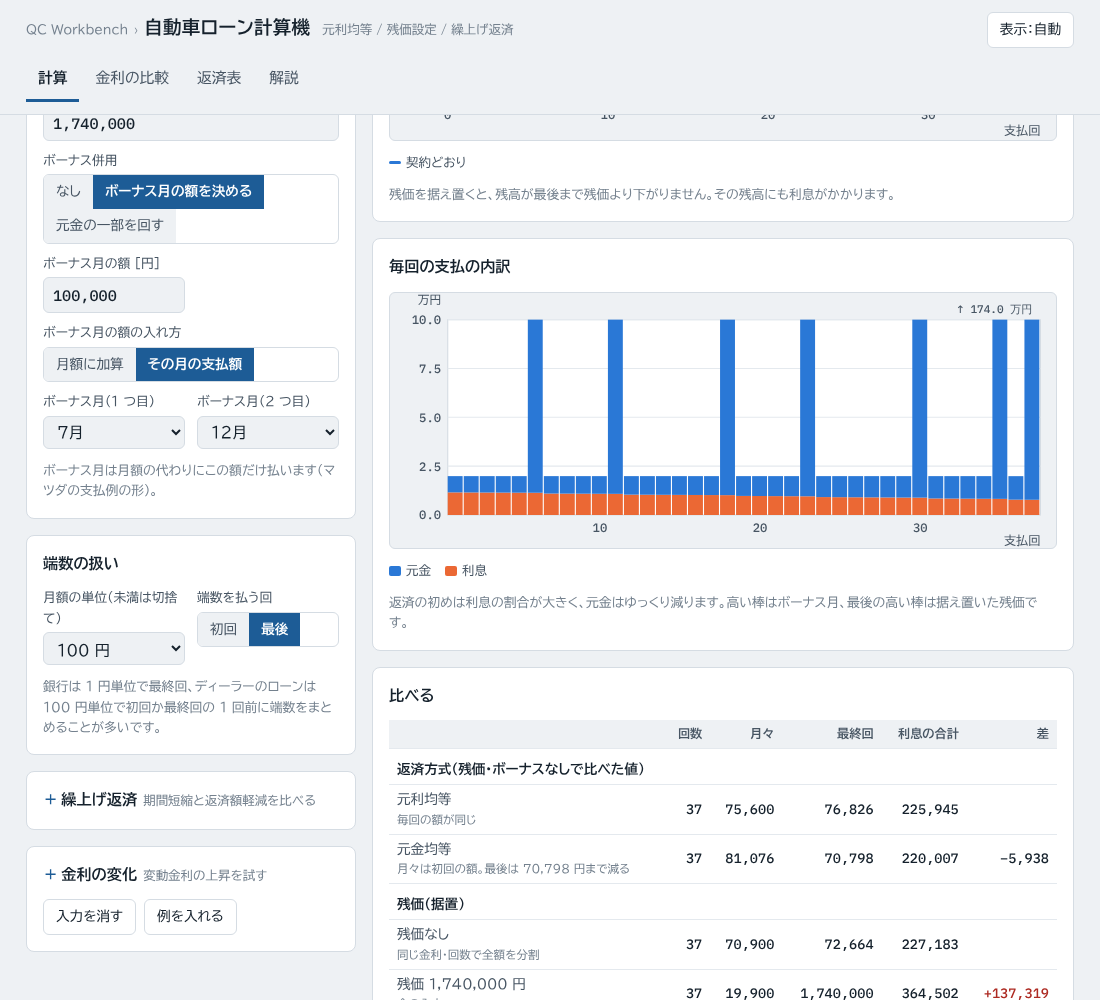
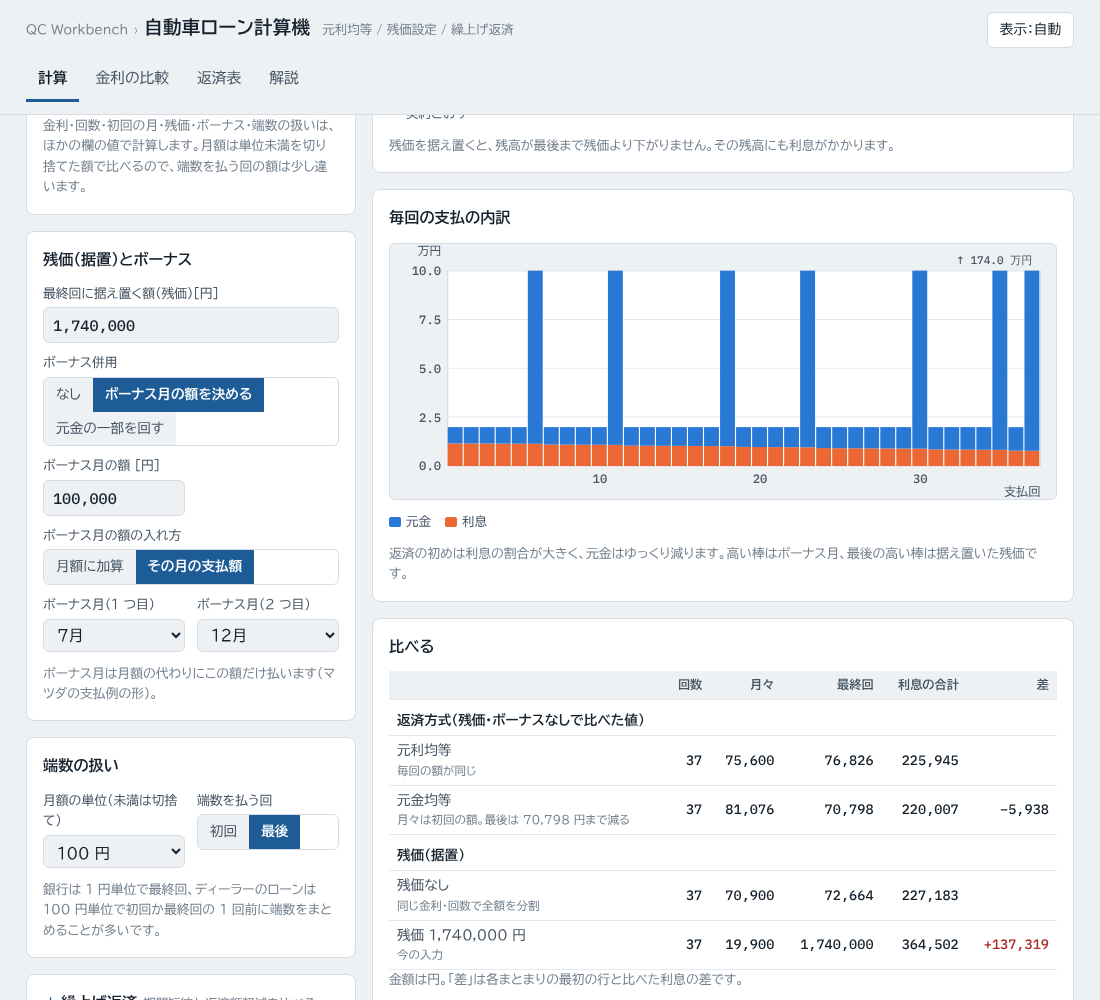
月々の支払額から借りられる額を逆算する欄を追加

diff --git a/js/app.js b/js/app.js
@@ -18,7 +18,7 @@
   // ---- 状態 ----
   const DEF = () => ({ price: '3,000,000', down: '500,000', preset: '', apr: '3.0', n: '60', first: String(nextMonth()), method: 'level',
     balloon: '', bmode: 'none', bamt: '', binc: 'add', bshare: '', bm1: '7', bm2: '12', unit: '1', adj: 'last',
-    ppk: '', ppx: '', rc: [{ k: '', apr: '' }, { k: '', apr: '' }, { k: '', apr: '' }], rule: 'recalc' });
+    ppk: '', ppx: '', target: '', rc: [{ k: '', apr: '' }, { k: '', apr: '' }, { k: '', apr: '' }], rule: 'recalc' });
   let st = store.get(KEY);
   if (!st || !st.c) st = { mode: 'calc', view: 'base', c: DEF() };
   st.c = Object.assign(DEF(), st.c);
@@ -37,7 +37,7 @@
     [0, 1, 2].map(i => `<input type="text" id="cRcK${i}" inputmode="numeric" aria-label="金利が変わる回 ${i + 1}"><input type="text" id="cRcA${i}" inputmode="decimal" aria-label="変わったあとの金利 ${i + 1}">`).join('');
 
   // ---- 入力と状態の対応 ----
-  const IN = { cPrice: 'price', cDown: 'down', cPreset: 'preset', cApr: 'apr', cN: 'n', cFirst: 'first', cBalloon: 'balloon', cBamt: 'bamt', cBshare: 'bshare', cBm1: 'bm1', cBm2: 'bm2', cUnit: 'unit', cPpk: 'ppk', cPpx: 'ppx' };
+  const IN = { cPrice: 'price', cDown: 'down', cPreset: 'preset', cApr: 'apr', cN: 'n', cFirst: 'first', cBalloon: 'balloon', cBamt: 'bamt', cBshare: 'bshare', cBm1: 'bm1', cBm2: 'bm2', cUnit: 'unit', cPpk: 'ppk', cPpx: 'ppx', cTarget: 'target' };
   const findPreset = id => LC.PRESETS.find(p => p.id === id) || null;
   function fillInputs() {
     Object.entries(IN).forEach(([id, k]) => { $(id).value = st.c[k] ?? ''; });
@@ -56,7 +56,7 @@
     if (k === 'apr') { const p = findPreset(st.c.preset); if (p && !(num(st.c.apr) / 100 >= p.lo - 1e-9 && num(st.c.apr) / 100 <= p.hi + 1e-9)) { st.c.preset = ''; $('cPreset').value = ''; } }
     save(); render();
   }));
-  ['cPrice', 'cDown', 'cBalloon', 'cBamt', 'cBshare', 'cPpx'].forEach(id => $(id).addEventListener('blur', () => {
+  ['cPrice', 'cDown', 'cBalloon', 'cBamt', 'cBshare', 'cPpx', 'cTarget'].forEach(id => $(id).addEventListener('blur', () => {
     const v = num($(id).value);
     if (Number.isFinite(v) && v >= 0) { const t = Math.round(v).toLocaleString('ja-JP'); $(id).value = t; st.c[IN[id]] = t; save(); }
   }));
@@ -139,8 +139,43 @@
 
   // ================= 計算 =================
   let R = null; const cCopy = [];
+  // 逆算：払える月額から、借りられる額と車両・諸費用の上限を出す（回数ごとの表も）
+  function renderReverse(o, bad, downIn) {
+    const el = $('cRev'), t = num(st.c.target), down = downIn >= 0 ? downIn : 0;
+    $('cTarget').classList.toggle('bad', String(st.c.target).trim() !== '' && !(t > 0));
+    if (String(st.c.target).trim() === '') { el.innerHTML = ''; return; }
+    if (!(t > 0)) { el.innerHTML = '<div class="msg err">× 月々の支払額は 0 より大きい値を入れてください。</div>'; return; }
+    // 借入額に関係しない欄（金利・回数・残価・ボーナス・端数）に誤りがあるときは計算しない
+    const need = ['cApr', 'cN', 'cBamt', 'cBm1', 'cBm2'].filter(id => bad.has(id));
+    if (need.length) { el.innerHTML = '<div class="msg err">× 金利・回数・ボーナスの赤い欄の値を確かめてください。</div>'; return; }
+    const base = Object.assign(baseOf(o), { P: 1 });
+    const m = LC.maxPrincipal(base, t);
+    if (m.errors.length) { el.innerHTML = `<div class="msg err">× ${esc(m.errors[0])}</div>`; return; }
+    const r = LC.simulate(Object.assign({}, base, { P: m.P }));
+    const princ = o.method === 'principal';
+    el.innerHTML = `<div class="rev">` +
+      `<div class="main"><span>借りられる額の上限</span><b>${yen(m.P)}<small> 円</small></b><small class="s">${princ ? '初回' : '月額'} ${yen(m.monthly)} 円・${pct(o.apr)}%・${o.n} 回${!princ && m.adjK && m.adjPay !== m.monthly ? `。端数をまとめる${m.adjK === 1 ? '初回' : ` ${m.adjK} 回目`}は ${yen(m.adjPay)} 円` : ''}</small></div>` +
+      `<div><span>頭金を足した支払う額の上限</span><b>${yen(m.P + down)}<small> 円</small></b><small class="s">頭金 ${yen(down)} 円</small></div>` +
+      `<div><span>利息の合計</span><b>${yen(r.totalInterest)}<small> 円</small></b></div>` +
+      `<div><span>ローンの支払総額</span><b>${yen(r.totalPay)}<small> 円</small></b>${o.balloon > 0 ? `<small class="s">最終回（残価）${yen(r.finalPay)} 円を含む</small>` : ''}</div>` +
+      `</div>` +
+      // 回数ごとの上限（今の回数の行に色）
+      `<div class="scroll"><table class="revn"><thead><tr><th>回数</th><th style="text-align:right">借りられる額</th><th style="text-align:right">頭金込み</th><th style="text-align:right">利息</th></tr></thead><tbody>` +
+      [...new Set([24, 36, 48, 60, 72, 84, 96, 120, o.n])].sort((a, b) => a - b).map(n => {
+        const mm = LC.maxPrincipal(Object.assign({}, base, { n }), t);
+        if (mm.errors.length) return `<tr${n === o.n ? ' class="cur"' : ''}><th>${n} 回</th><td colspan="3" style="text-align:left;font-family:var(--f-ui)">―</td></tr>`;
+        const rr = LC.simulate(Object.assign({}, base, { n, P: mm.P }));
+        return `<tr${n === o.n ? ' class="cur"' : ''}><th>${n} 回</th><td>${yen(mm.P)}</td><td>${yen(mm.P + down)}</td><td>${yen(rr.totalInterest)}</td></tr>`;
+      }).join('') + `</tbody></table></div>` +
+      `<div class="row" style="margin-top:8px"><button class="btn" type="button" id="cRevUse">この上限で計算する</button></div>`;
+    $('cRevUse').addEventListener('click', () => {
+      st.c.price = (m.P + down).toLocaleString('ja-JP'); fillInputs(); save(); render(); toast('支払う額を、借りられる上限に頭金を足した額にしました');
+    });
+  }
+
   function renderCalc() {
     const { o, bad, down } = read();
+    renderReverse(o, bad, down);
     const p = findPreset(st.c.preset);
     $('cLoanNote').textContent = o.P > 0 ? `借入額：${yen(o.P)} 円` : '';
     $('cPresetNote').innerHTML = p ? `${esc(p.note)}。出典：<a href="${esc(p.url)}" target="_blank" rel="noopener">${esc(p.src)}</a>（${esc(LC.RATES_CHECKED)} 確認）` + (p.hi > p.lo ? `。範囲 ${pct(p.lo)}〜${pct(p.hi)}% のうち、下限を入れています。` : '') : '販売店の見積書や銀行の審査結果の金利（実質年率）を入れてください。「金利の比較」タブで各社の例を比べられます。';

diff --git a/index.html b/index.html
@@ -180,6 +180,19 @@ table.sch tr.best td { font-weight: 700; }
 table.sch td.ng { color: var(--ng); }
 table.sch td .u { color: var(--muted); font-size: .76rem; margin-left: 2px; font-family: var(--f-ui); }
 .sch-wrap { max-height: 70vh; overflow: auto; border: 1px solid var(--line); border-radius: 6px; }
+/* 逆算 */
+.rev { display: grid; grid-template-columns: repeat(2, minmax(0, 1fr)); gap: 8px; }
+.rev div { background: var(--bg); border-radius: 6px; padding: 6px 8px; min-width: 0; }
+.rev span { display: block; font-size: .72rem; color: var(--ink2); }
+.rev b { font: 500 1.15rem var(--f-num); font-variant-numeric: tabular-nums; white-space: nowrap; }
+.rev .main b { color: var(--accent); }
+.rev b small { font-family: var(--f-ui); font-size: .72rem; color: var(--muted); margin-left: 2px; }
+.rev small.s { display: block; font-size: .72rem; color: var(--muted); line-height: 1.4; margin-top: 2px; }
+table.revn { border-collapse: collapse; width: 100%; font-size: .84rem; margin-top: 4px; }
+table.revn th, table.revn td { padding: 3px 6px; border-bottom: 1px solid var(--grid); white-space: nowrap; }
+table.revn th { text-align: left; font-weight: 400; color: var(--ink2); }
+table.revn td { font-family: var(--f-num); font-variant-numeric: tabular-nums; text-align: right; }
+table.revn tr.cur { background: var(--accent-weak); }
 /* 金利の比較 */
 table.pr { border-collapse: collapse; width: 100%; font-size: .85rem; }
 table.pr th, table.pr td { padding: 6px 8px; border-bottom: 1px solid var(--grid); vertical-align: top; }
@@ -260,6 +273,14 @@ details.opt .inner { display: flex; flex-direction: column; gap: 12px; }
         <p class="privacy">入力したデータは、この端末の外に送りません。入力は自動でこの端末に保存します。</p>
       </div>
       <div class="sum" id="cSum" aria-live="polite"></div>
+      <div class="box">
+        <h2>月々の支払額から逆算</h2>
+        <div class="fields">
+          <div class="field wide"><label for="cTarget">払える月々の支払額 [円]</label><input type="text" id="cTarget" inputmode="numeric" placeholder="例：30,000"></div>
+        </div>
+        <div id="cRev" aria-live="polite"></div>
+        <p class="hint">金利・回数・初回の月・残価・ボーナス・端数の扱いは、ほかの欄の値で計算します。月額は単位未満を切り捨てた額で比べるので、端数を払う回の額は少し違います。</p>
+      </div>
       <div class="box">
         <h2>残価（据置）とボーナス</h2>
         <div class="fields">
@@ -472,6 +493,15 @@ details.opt .inner { display: flex; flex-direction: column; gap: 12px; }
 </tbody>
 </table>
 <p>調整する回の額は、その後の支払で残高がちょうど 0 になる（残価があるときは最終回がちょうど残価になる）ように、契約時の金利で逆算しています。</p>
+<h2>月々の支払額から逆算</h2>
+<p>「払える月々の支払額」を入れると、その月額で借りられる額の上限と、頭金を足した支払う額（車両・諸費用）の上限を出します。金利・回数・初回の月・残価・ボーナス・端数の扱いは、ほかの欄の値を使います。</p>
+<ul>
+<li>比べるのは単位未満を切り捨てた月額（見積書の「月々○円」）です。元金均等では初回の額で比べます</li>
+<li>切り捨てた端数は端数を払う回にまとまるので、その回の額も表示します。100 円単位では、その回が月額より数千円多くなることがあります</li>
+<li>月額は借入額に対して増える一方なので、上限は 1 円単位まで探して求めています（式で解くと、月額の切捨てと端数の調整を含められないため）</li>
+<li>回数ごと（24〜120 回）の上限も並べます。回数を延ばすと借りられる額は増えますが、利息の合計も増えます</li>
+<li>残価やボーナス月の額を決めているときは、それらを払ったうえで月額がこの額になる上限です</li>
+</ul>
 <h2>繰上げ返済</h2>
 <p>指定した回の支払のあとに、指定した額を元金に充てます。</p>
 <ul>

diff --git a/tests/test.js b/tests/test.js
@@ -141,7 +141,39 @@ ok('ボーナス月が 1 つ', L.simulate({ P: 1e6, apr: 0.03, n: 60, first: 1, 
 ok('元金均等に据置', L.simulate({ P: 1e6, apr: 0.03, n: 60, first: 1, method: 'principal', balloon: 1e5 }).errors.length > 0);
 ok('据置に一部繰上げ', L.simulate({ P: 1e6, apr: 0.03, n: 60, first: 1, balloon: 1e5, prepay: { k: 10, amount: 1e5, mode: 'shorten' } }).errors.length > 0);
 
-// ================= 5. 金利のプリセット =================
+// ================= 5. 逆算（月々の支払額から借りられる額） =================
+// 順方向の計算（上で照合済み）の逆なので、往復で確かめる：結果の借入額で月額（単位未満切捨て）が目標以下、1 円増やすと目標を超える
+{
+  const cases = [
+    ['元利均等 3%・60 回・1 円単位', { apr: 0.03, n: 60 }, 44921],
+    ['元利均等 0%', { apr: 0, n: 60 }, 20000],
+    ['元金均等 4%・84 回（初回の額）', { apr: 0.04, n: 84, method: 'principal' }, 50000],
+    ['マツダ CX-30 の条件・100 円単位', { apr: 0.054, n: 37, first: 2, balloon: 1740000, bonus: { mode: 'amount', amount: 100000, months: [7, 12], include: 'total' }, round: { unit: 100, adjust: 'last' } }, 19900],
+    ['銀行のボーナス併用（60 万円）', { apr: 0.05, n: 60, bonus: { mode: 'share', share: 600000, months: [6, 12] } }, 26419]
+  ];
+  for (const [name, o, target] of cases) {
+    const m = L.maxPrincipal(Object.assign({ first: 1, round: { unit: 1, adjust: 'last' } }, o), target);
+    if (m.errors.length) { ok(name, false, m.errors.join(' ')); continue; }
+    const pay = P => { const r = run(Object.assign({}, o, { P })); return o.method === 'principal' ? r.firstPay : r.A; };
+    ok(`逆算 ${name} 月額が目標以下`, pay(m.P) <= target, `${pay(m.P)} > ${target}`);
+    ok(`逆算 ${name} 1 円増やすと目標を超える`, pay(m.P + 1) > target, `${pay(m.P + 1)}`);
+  }
+  // 手計算：3%・60 回で月額 44,921 円（1 円単位）→ 丸める前の月額が 44,922 円未満になる上限 = 44,922 × 年金現価係数 の直前
+  const af = (1 - Math.pow(1.0025, -60)) / 0.0025;
+  eq('逆算 3%・60 回の上限（手計算）', L.maxPrincipal({ P: 1, apr: 0.03, n: 60, first: 1, round: { unit: 1, adjust: 'last' } }, 44921).P, Math.ceil(44922 * af) - 1, 1);
+  eq('逆算 0% の上限', L.maxPrincipal({ P: 1, apr: 0, n: 60, first: 1, round: { unit: 1, adjust: 'last' } }, 20000).P, 20000 * 60 + 59, 0);
+  // 調整の回の額も返す（100 円単位では、切り捨てた端数がまとまって大きくなることがある）
+  const m100 = L.maxPrincipal({ P: 1, apr: 0.05, n: 60, first: 1, round: { unit: 100, adjust: 'last' } }, 30000);
+  ok('逆算 100 円単位 月額と調整回', m100.monthly === 30000 && m100.adjPay > 30000, JSON.stringify(m100));
+  ok('逆算 月額 0', L.maxPrincipal({ P: 1, apr: 0.03, n: 60, first: 1 }, 0).errors.length > 0);
+  // ボーナス月の額と残価が大きいと、月額 10 円でも借りられる額がある（その月額は 0〜10 円）
+  const big = { P: 1, apr: 0.05, n: 60, first: 1, round: { unit: 1, adjust: 'last' }, balloon: 1000000, bonus: { mode: 'amount', amount: 50000, months: [6, 12], include: 'total' } };
+  const mb = L.maxPrincipal(big, 10);
+  ok('逆算 ボーナスと残価が大きいときの月額', mb.errors.length === 0 && mb.monthly >= 0 && mb.monthly <= 10, JSON.stringify(mb));
+  ok('月額がマイナスになる借入額', L.simulate(Object.assign({}, big, { P: 1000001 })).errors.length > 0);
+}
+
+// ================= 6. 金利のプリセット =================
 for (const p of L.PRESETS) {
   ok(`プリセット ${p.name} の出典`, /^https:\/\//.test(p.url || ''));
   ok(`プリセット ${p.name} の値`, p.lo > 0 && p.hi >= p.lo && p.hi < 0.3);

diff --git a/js/loan.js b/js/loan.js
@@ -150,6 +150,8 @@
       s.adj = atStart && adjust === 'first' ? ps[0] : ps[ps.length - 1];
     }
     subs.forEach(s => setLevel(s, 1, true));
+    // ボーナス月の額と残価だけで借入額を返しきってしまう（月額がマイナスになる）ときは計算しない
+    if (subs[0].rawA < 0) return { errors: ['ボーナス月の額と残価だけで借入額を超えるため、月額がマイナスになります。ボーナス月の額か残価を減らしてください。'], negative: true };
     const firstA = subs.map(s => s.A), firstRaw = subs.map(s => s.rawA);
 
     const rows = [];
@@ -265,6 +267,25 @@
       url: 'https://221616.com/guide/loan/car-loan/', src: 'ガリバーの解説記事（2025-07-11更新）', note: '相場の目安です' }
   ];
 
-  const api = { simulate, levelPayment, bonusPeriods, monthOf, rateAt, check, floorU, PRESETS, RATES_CHECKED };
+  // ---------------- 逆算：月々の支払額から借りられる額 ----------------
+  // 月額（元金均等は初回の額）が target 円以下になる最大の借入額（円）。残価・ボーナス・端数の単位は o のまま。
+  // 比べるのは単位未満を切り捨てた月額（広告や見積書の「月々○円」と同じ）。切り捨てた端数は調整の回で払うので、その回の額も返す。
+  // 月額は借入額に対して増える一方なので、倍々で上限を見つけてから 2 分法で 1 円まで詰める
+  function maxPrincipal(o, target) {
+    if (!(target > 0)) return { errors: ['月々の支払額は 0 より大きい値を入れてください。'] };
+    const base = Object.assign({}, o, { prepay: null, rateChanges: [] });
+    // 月額がマイナスになる小さい借入額は、どの目標より小さいとみなす
+    const pay = P => { const r = simulate(Object.assign({}, base, { P })); return r.negative ? -Infinity : r.errors.length ? Infinity : (o.method === 'principal' ? r.firstPay : r.A); };
+    const b = o.bonus || { mode: 'none' };
+    const minP = Math.floor((o.balloon || 0) + (b.mode === 'share' ? b.share : 0)) + 1;
+    if (pay(minP) > target) return { errors: ['この月額では、残価やボーナスの額を払いきれません。月額を上げるか、ボーナス月の額・残価を見直してください。'] };
+    let lo = minP, hi = Math.max(minP * 2, Math.ceil(target) * 12);
+    while (pay(hi) <= target) { lo = hi; hi *= 2; if (hi > 1e11) return { errors: ['借りられる額が大きすぎて計算できません。'] }; }
+    while (hi - lo > 1) { const mid = Math.floor((lo + hi) / 2); if (pay(mid) <= target) lo = mid; else hi = mid; }
+    const r = simulate(Object.assign({}, base, { P: lo }));
+    return { errors: [], P: lo, monthly: pay(lo), adjK: r.adjK, adjPay: r.adjPay };
+  }
+
+  const api = { simulate, maxPrincipal, levelPayment, bonusPeriods, monthOf, rateAt, check, floorU, PRESETS, RATES_CHECKED };
   if (typeof module !== 'undefined' && module.exports) module.exports = api; else root.LoanCalc = api;
 })(typeof self !== 'undefined' ? self : this);

diff --git a/sw.js b/sw.js
@@ -1,6 +1,6 @@
 // 自動車ローン計算機の Service Worker
 // 公開ファイルを更新したら VERSION を上げる。古いキャッシュは activate 時に削除される
-const VERSION = 'v1.0.1';
+const VERSION = 'v1.1.0';
 const APP_CACHE = `car-loan-calc-${VERSION}`;
 const FONT_CACHE = 'car-loan-calc-fonts';
 

diff --git a/README.md b/README.md
@@ -19,13 +19,15 @@
 ### 計算
 
 1. **借りる額と金利**：支払う額（車両・諸費用）と頭金、金利（実質年率）、支払回数、初回の支払月、返済方式（元利均等・元金均等）。金利は「金利の例」から選ぶか、見積書の金利を入れます
-2. **残価（据置）とボーナス**：最終回に据え置く額と、ボーナス併用（ボーナス月の額を決める形＝ディーラー、元金の一部を回す形＝銀行）
-3. **端数の扱い**：月額の単位（1・10・100・1,000 円未満を切捨て）と、端数を払う回（初回・最後）
-4. **繰上げ返済**：返す回と額を入れると、期間短縮と返済額軽減を比べます
-5. **金利の変化**：金利が変わる回と変わったあとの金利（3 つまで）。返済額の決め方は「その都度計算し直す」と「5 年ルール・125% ルール」から選べます
+2. **月々の支払額から逆算**：払える月額を入れると、借りられる額の上限と頭金込みの支払う額の上限を、回数ごと（24〜120 回）にも出します
+3. **残価（据置）とボーナス**：最終回に据え置く額と、ボーナス併用（ボーナス月の額を決める形＝ディーラー、元金の一部を回す形＝銀行）
+4. **端数の扱い**：月額の単位（1・10・100・1,000 円未満を切捨て）と、端数を払う回（初回・最後）
+5. **繰上げ返済**：返す回と額を入れると、期間短縮と返済額軽減を比べます
+6. **金利の変化**：金利が変わる回と変わったあとの金利（3 つまで）。返済額の決め方は「その都度計算し直す」と「5 年ルール・125% ルール」から選べます
 
 | 出力 | 内容 |
 |---|---|
+| 逆算 | 払える月額で借りられる額の上限、頭金込みの上限、利息の合計、端数をまとめる回の額、回数ごとの上限 |
 | 返済額 | 月々の支払額、端数を払う回の額、ボーナス月の支払額、最終回（残価）、利息の合計、支払総額 |
 | 図 | 借入残高の推移（契約どおり・金利の変化・期間短縮・返済額軽減を重ねる）、毎回の支払の内訳（元金と利息） |
 | 比べる | 元利均等と元金均等、残価ありとなし、繰上げ返済のあり・なし、金利の変化のあり・なしの、回数・月々・最終回・利息の差 |
@@ -95,6 +97,7 @@
   - ホンダ 残価設定型クレジット（N-BOX・5 年）：月額は一致、初回は公表 16,138 円・計算 16,139 円（1 円差）
   - 日産 残価設定型クレジット（ノート 2 例）：月額は一致、最終回 1 回前は公表より 80 円・159 円少ない（0.35%・0.71%）。元金の表記（所要資金）が現金価格 − 頭金と合わないなど、前提が公表されていない部分があります。もう 1 例（ノート X FOUR）は月額の 100 円未満の決め方が違い（公表 19,400 円・計算 19,500 円）、照合から外しています
 - **手計算できる代表点**：金利 0%、100 円単位の丸めと端数の調整、据置の月額の式、金利の変化（その都度計算・5 年ルールの据え置き・61 回目以降の出し直し・125% の上限・未払利息）、繰上げ返済（期間短縮で回数が減る、返済額軽減の新しい月額、金利変化と組み合わせたとき）、元金均等の初回
+- **逆算**：結果の借入額で月額が目標以下、1 円増やすと目標を超えることを、元利均等・金利 0%・元金均等・マツダの支払例の条件・銀行のボーナス併用で往復して確認。3%・60 回の上限を手計算（月額 × 年金現価係数）と照合
 - **入力の誤り**：借入額 0、回数 1、金利 30%、残価が借入額以上、ボーナス月が 1 つ、元金均等に残価、残価のあるローンの一部繰上げ
 - **金利の例**：すべてに出典の URL があり、値が範囲内か
 

diff --git a/DEVELOPMENT.md b/DEVELOPMENT.md
@@ -47,5 +47,6 @@ node tests/test.js    # 不一致があれば終了コード 1
 - **ボーナス**：`amount` はボーナス月の額を固定（`include: 'add'` は月額に加算、`'total'` はその月は月額の代わり）。`share` は借入額の一部を別のローンとしてボーナス月だけで返します。据置があるときは最終回にボーナスを足しません
 - **金利の変化**：`rateChanges` は「その回の利息から適用」。`recalc` は変わった回に均等額を出し直し、`5y125` は 61 回目と、その後の金利の変化のたびに出し直して 1.25 倍で頭打ち、払いきれない利息は `unpaid` に繰り越して最終回で払います
 - **繰上げ返済**：毎月分の元金に充てます。期間短縮は、その時点の金利で月額のまま返し切る回を新しい最終回にし（あとで金利が変わって出し直すときも、この最終回まで）、返済額軽減は残りの回数で均等額を出し直します。据置があるときは計算しません
+- **逆算**：`maxPrincipal(o, target)` は、月額（元金均等は初回）が target 以下になる最大の借入額を、倍々で上限を見つけてから 2 分法で 1 円まで探します。月額がマイナスになる小さい借入額（ボーナス・残価だけで返しきる）は `negative` として目標より小さいとみなします
 - **入力の保存**：localStorage のキー `car-loan-calc-inputs`。読み書きはすべて try/catch で囲み、保存できない環境でも動きます
 - **テーマ**：QC Workbench の全ツールで共通のキー `qc-workbench-theme`

diff --git a/docs/explanation.md b/docs/explanation.md
@@ -69,6 +69,16 @@
 
 調整する回の額は、その後の支払で残高がちょうど 0 になる（残価があるときは最終回がちょうど残価になる）ように、契約時の金利で逆算しています。
 
+## 月々の支払額から逆算
+
+「払える月々の支払額」を入れると、その月額で借りられる額の上限と、頭金を足した支払う額（車両・諸費用）の上限を出します。金利・回数・初回の月・残価・ボーナス・端数の扱いは、ほかの欄の値を使います。
+
+- 比べるのは単位未満を切り捨てた月額（見積書の「月々○円」）です。元金均等では初回の額で比べます
+- 切り捨てた端数は端数を払う回にまとまるので、その回の額も表示します。100 円単位では、その回が月額より数千円多くなることがあります
+- 月額は借入額に対して増える一方なので、上限は 1 円単位まで探して求めています（式で解くと、月額の切捨てと端数の調整を含められないため）
+- 回数ごと（24〜120 回）の上限も並べます。回数を延ばすと借りられる額は増えますが、利息の合計も増えます
+- 残価やボーナス月の額を決めているときは、それらを払ったうえで月額がこの額になる上限です
+
 ## 繰上げ返済
 
 指定した回の支払のあとに、指定した額を元金に充てます。
